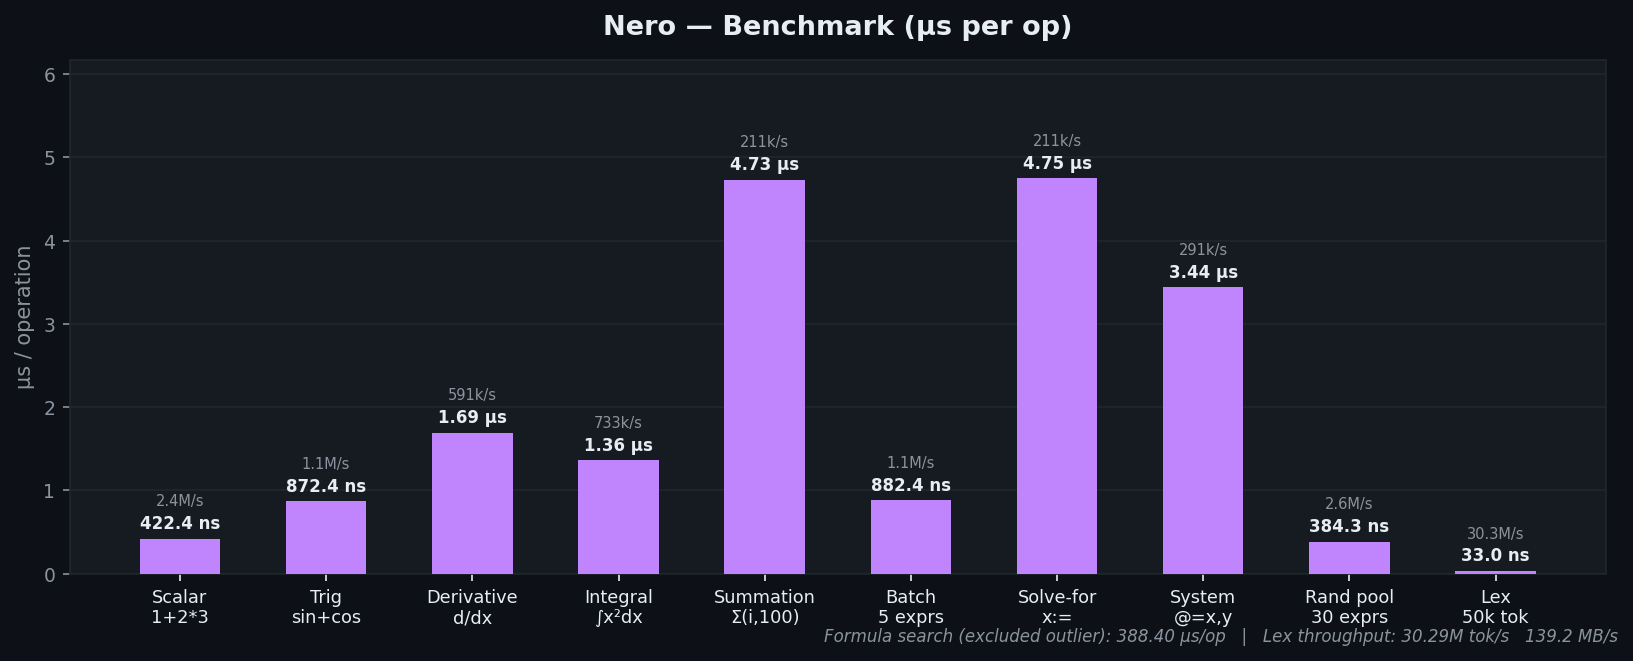
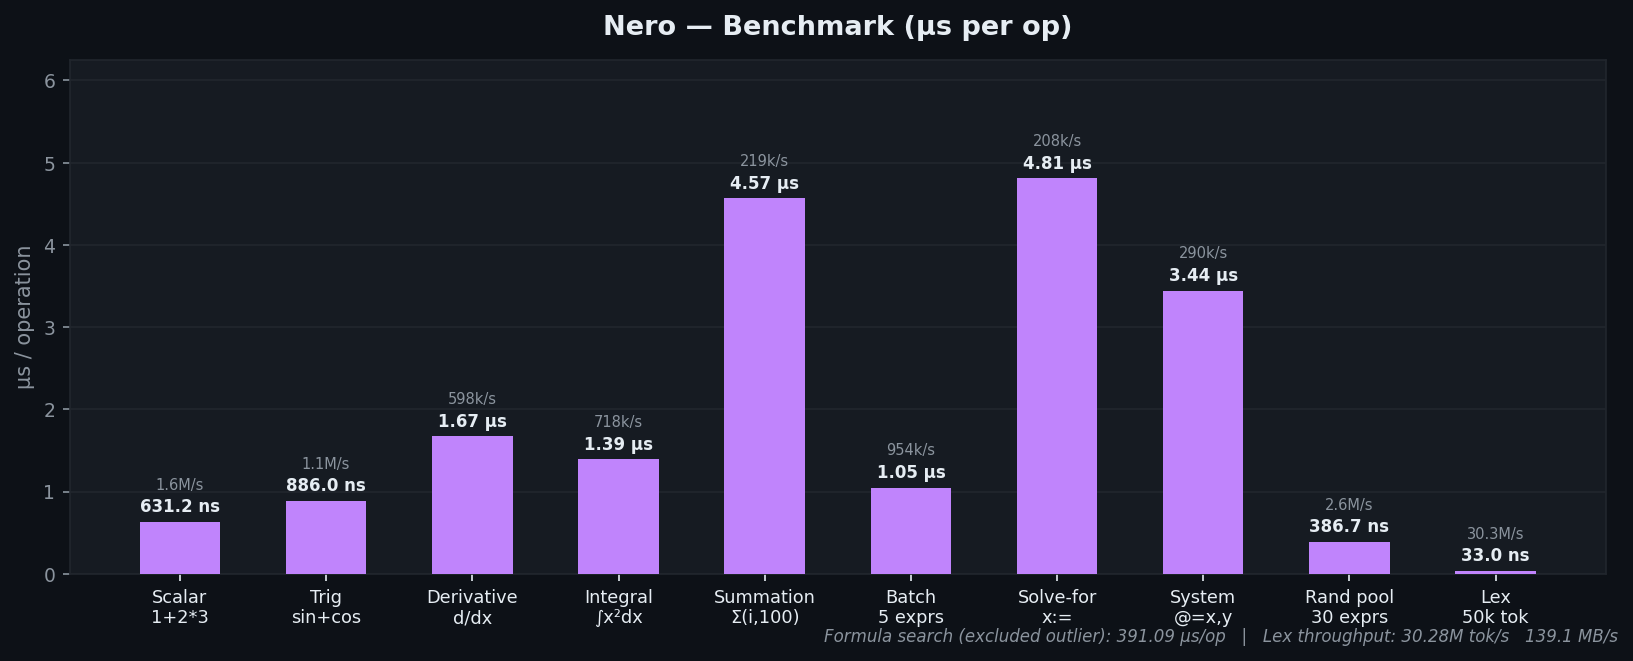
fix: update cicd deps for c++23 and such

diff --git a/README.md b/README.md
@@ -178,17 +178,17 @@ Supported:
 
 | Benchmark      | µs / op    | ops / sec    | op unit |
 | -------------- | ---------- | ------------ | ------- |
-| Scalar         | 0.42 µs    | 2.37 M/s     | op      |
-| Trig           | 0.87 µs    | 1.15 M/s     | op      |
-| Derivative     | 1.69 µs    | 590.7 k/s    | op      |
-| Integral       | 1.36 µs    | 733.1 k/s    | op      |
-| Summation      | 4.73 µs    | 211.2 k/s    | op      |
-| Batch          | 0.88 µs    | 1.13 M/s     | expr    |
-| Formula search | 388.40 µs  | 2.6 k/s      | op      |
-| Solve-for      | 4.75 µs    | 210.5 k/s    | op      |
-| System solver  | 3.44 µs    | 290.7 k/s    | op      |
-| Random pool    | 0.38 µs    | 2.60 M/s     | expr    |
-| Lex            | 0.03 µs    | 30.29 M/s    | token   |
+| Scalar         | 0.63 µs    | 1.58 M/s     | op      |
+| Trig           | 0.89 µs    | 1.13 M/s     | op      |
+| Derivative     | 1.67 µs    | 598.1 k/s    | op      |
+| Integral       | 1.39 µs    | 718.4 k/s    | op      |
+| Summation      | 4.57 µs    | 218.9 k/s    | op      |
+| Batch          | 1.05 µs    | 954.0 k/s    | expr    |
+| Formula search | 391.09 µs  | 2.6 k/s      | op      |
+| Solve-for      | 4.81 µs    | 207.9 k/s    | op      |
+| System solver  | 3.44 µs    | 290.3 k/s    | op      |
+| Random pool    | 0.39 µs    | 2.59 M/s     | expr    |
+| Lex            | 0.03 µs    | 30.28 M/s    | token   |
 
 <details>
 <summary>Raw numbers</summary>
@@ -196,20 +196,20 @@ Supported:
 ```
 === Nero Benchmarks ===
 
-Scalar: 1 + 2 * 3                                           42.24 ms       2367693/s
-Trig: sin(pi/6) + cos(pi/3)                                 43.62 ms       1146269/s
-Derivative: d/dx(x^3) at x=2                                16.93 ms        590777/s
-Integral: int_0^1 x^2 dx                                     6.82 ms        733044/s
-Summation: sum_{i=1}^{100}(i)                               23.67 ms        211261/s
-Batch (5 unit-carrying exprs)                               44.12 ms        226637/s
-Formula search (acceleration target)                       388.40 ms          2575/s
-Solve-for: x^2 - 4 ; x :=                                   14.25 ms        210581/s
-System solver: x+y=5, x-y=1 ; @=x,y                          6.88 ms        290606/s
-Random pool (30 exprs, 1000 rounds)                         11.53 ms         86706/s
+Scalar: 1 + 2 * 3                                           63.12 ms       1584204/s
+Trig: sin(pi/6) + cos(pi/3)                                 44.30 ms       1128710/s
+Derivative: d/dx(x^3) at x=2                                16.72 ms        597921/s
+Integral: int_0^1 x^2 dx                                     6.96 ms        717914/s
+Summation: sum_{i=1}^{100}(i)                               22.84 ms        218941/s
+Batch (5 unit-carrying exprs)                               52.41 ms        190801/s
+Formula search (acceleration target)                       391.09 ms          2557/s
+Solve-for: x^2 - 4 ; x :=                                   14.43 ms        207875/s
+System solver: x+y=5, x-y=1 ; @=x,y                          6.89 ms        290186/s
+Random pool (30 exprs, 1000 rounds)                         11.60 ms         86203/s
 
 --- Lex Throughput ---
-Lex: 50k-token string (all token types)                    825.25 ms           606/s
-  Tokens/sec: 30.29M   Throughput: 139.2 MB/s
+Lex: 50k-token string (all token types)                    825.74 ms           606/s
+  Tokens/sec: 30.28M   Throughput: 139.1 MB/s
 ```
 
 </details>
